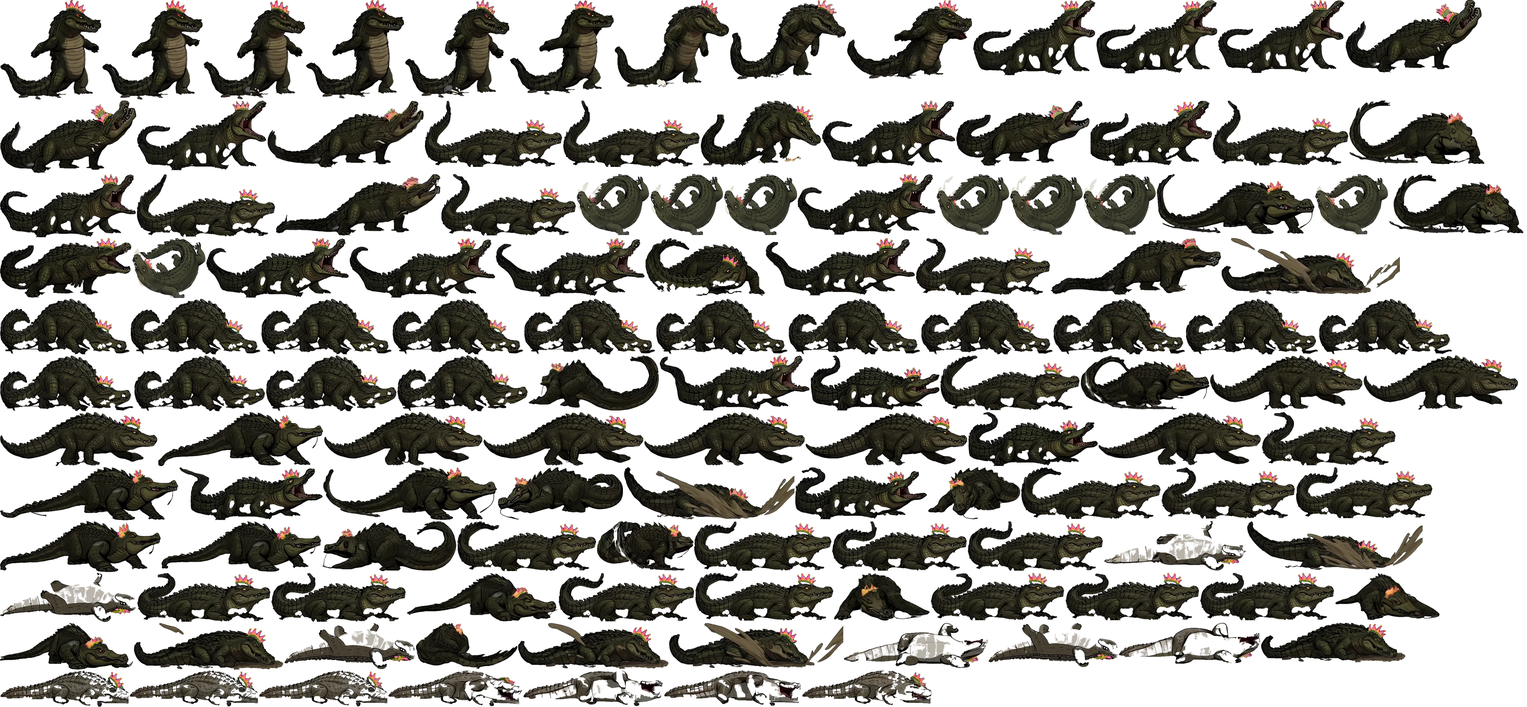
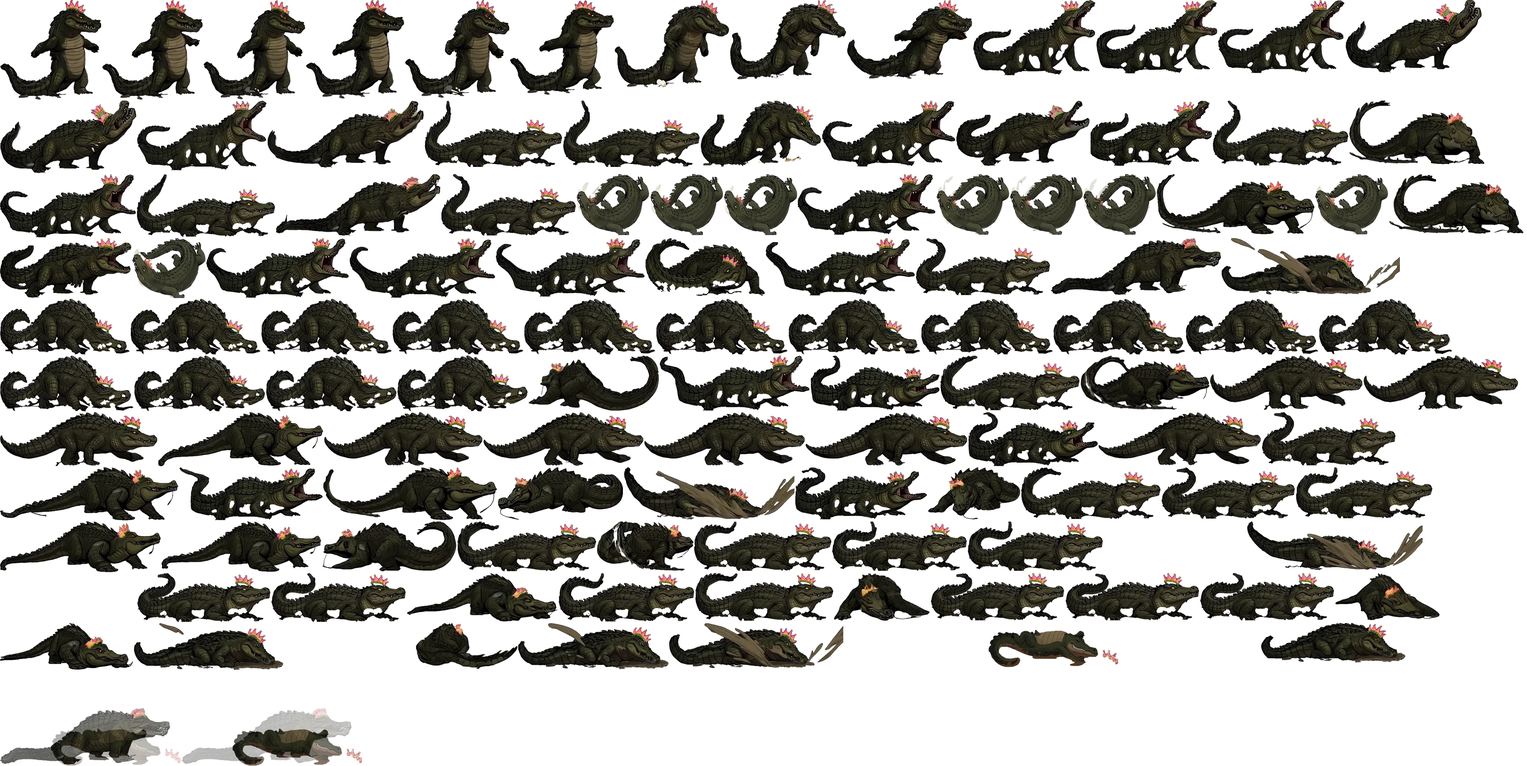
R-1.1 wired (the lead said yes): Crocus Rex's painted defeat still in croc-anim.webp (mud spill repainted brown), the in-fight death clip rebuilt at $0 from his clean flinch + a 2-step cross-fade into the still (the 12 holey Wan frames cut; every packed frame 1-2% holes), and a beaten guardian on a 
Claude-Session: https://claude.ai/code/session_01FhBbYNb5urBcaMjg7yH8FS

diff --git a/src/game/crocAnimData.ts b/src/game/crocAnimData.ts
@@ -4,5 +4,5 @@ import type { BossFrameRect } from './paintedBoss.ts';
 export const CROC_ANIM_UP = 1.5;
 export const CROC_ANIM_SIZE = { w: 4096, h: 1898 };
 /** the frame names of each move, in order */
-export const CROC_CLIPS = {"idle": ["idle_005", "idle_007", "idle_009", "idle_011", "idle_013", "idle_015", "idle_017", "idle_019", "idle_021", "idle_023", "idle_025", "idle_027", "idle_029", "idle_031", "idle_033", "idle_035", "idle_037", "idle_039", "idle_041", "idle_043", "idle_045", "idle_047"], "crawl": ["crawl_006", "crawl_007", "crawl_008", "crawl_009", "crawl_010", "crawl_011", "crawl_012", "crawl_013"], "roar": ["roar_000", "roar_002", "roar_004", "roar_006", "roar_008", "roar_010", "roar_012", "roar_014", "roar_016", "roar_018", "roar_020", "roar_022", "roar_024", "roar_026", "roar_028", "roar_030", "roar_032"], "roarHold": ["roar_010", "roar_012", "roar_014", "roar_016", "roar_018", "roar_020", "roar_022", "roar_024"], "whipWind": ["whip_000", "whip_002", "whip_004", "whip_006", "whip_008", "whip_010", "whip_012", "whip_014", "whip_016", "whip_018"], "whipSpin": ["whip_019", "whip_022", "whip_025", "whip_028", "whip_031", "whip_034", "whip_037", "whip_040", "whip_043", "whip_046"], "slamUp": ["slam_000", "slam_002", "slam_004", "slam_006", "slam_008", "slam_010", "slam_012", "slam_014", "slam_016"], "slamDown": ["slam_017", "slam_019", "slam_021", "slam_023", "slam_025", "slam_027", "slam_029", "slam_031"], "pant": ["roar_016", "roar_018", "roar_020", "roar_022", "roar_024", "roar_026", "roar_028"], "hurt": ["hurt_000", "hurt_001", "hurt_002", "hurt_003", "hurt_004", "hurt_005", "hurt_006"], "stagger": ["stagger_011", "stagger_013", "stagger_015", "stagger_017", "stagger_019", "stagger_021", "stagger_023", "stagger_025", "stagger_027", "stagger_029", "stagger_031", "stagger_033", "stagger_035", "stagger_037", "stagger_039"], "defeated": ["defeated_000", "defeated_002", "defeated_004", "defeated_006", "defeated_008", "defeated_010", "defeated_012", "defeated_014", "defeated_016", "defeated_018", "defeated_020", "defeated_022", "defeated_024"], "roll": ["roll_008", "roll_009", "roll_010", "roll_011", "roll_012", "roll_013", "roll_014", "roll_015"]} as const satisfies Record<string, readonly string[]>;
-export const CROC_ANIM_FRAMES: Record<string, BossFrameRect> = {"crawl_006": {"x": 3246, "y": 954, "w": 409, "h": 146, "ax": 215.2, "ay": 139.8}, "crawl_007": {"x": 3657, "y": 954, "w": 416, "h": 146, "ax": 220.2, "ay": 139.8}, "crawl_008": {"x": 0, "y": 1106, "w": 422, "h": 146, "ax": 225.2, "ay": 139.8}, "crawl_009": {"x": 869, "y": 1106, "w": 425, "h": 145, "ax": 227.2, "ay": 139.8}, "crawl_010": {"x": 1296, "y": 1106, "w": 430, "h": 145, "ax": 230.2, "ay": 139.8}, "crawl_011": {"x": 1728, "y": 1106, "w": 431, "h": 145, "ax": 230.2, "ay": 139.8}, "crawl_012": {"x": 2161, "y": 1106, "w": 434, "h": 145, "ax": 231.2, "ay": 139.8}, "crawl_013": {"x": 2947, "y": 1106, "w": 435, "h": 144, "ax": 231.2, "ay": 138.8}, "defeated_000": {"x": 0, "y": 1800, "w": 345, "h": 98, "ax": 169.2, "ay": 101.4}, "defeated_002": {"x": 347, "y": 1800, "w": 345, "h": 97, "ax": 169.2, "ay": 100.4}, "defeated_004": {"x": 694, "y": 1800, "w": 345, "h": 97, "ax": 169.2, "ay": 100.4}, "defeated_006": {"x": 2151, "y": 1800, "w": 348, "h": 93, "ax": 169.2, "ay": 100.4}, "defeated_008": {"x": 1041, "y": 1800, "w": 360, "h": 96, "ax": 169.2, "ay": 100.4}, "defeated_010": {"x": 1781, "y": 1800, "w": 368, "h": 95, "ax": 169.2, "ay": 99.4}, "defeated_012": {"x": 1403, "y": 1800, "w": 376, "h": 96, "ax": 169.2, "ay": 101.4}, "defeated_014": {"x": 3001, "y": 1672, "w": 379, "h": 110, "ax": 169.2, "ay": 116.4}, "defeated_016": {"x": 2264, "y": 1672, "w": 385, "h": 122, "ax": 170.2, "ay": 127.4}, "defeated_018": {"x": 2961, "y": 1399, "w": 382, "h": 133, "ax": 169.2, "ay": 134.4}, "defeated_020": {"x": 0, "y": 1538, "w": 365, "h": 132, "ax": 157.2, "ay": 130.4}, "defeated_022": {"x": 762, "y": 1672, "w": 351, "h": 125, "ax": 144.2, "ay": 123.4}, "defeated_024": {"x": 2651, "y": 1672, "w": 348, "h": 119, "ax": 141.2, "ay": 119.4}, "hurt_000": {"x": 0, "y": 639, "w": 353, "h": 161, "ax": 180.7, "ay": 164.0}, "hurt_001": {"x": 2565, "y": 270, "w": 358, "h": 176, "ax": 180.7, "ay": 179.0}, "hurt_002": {"x": 3609, "y": 0, "w": 365, "h": 195, "ax": 197.7, "ay": 198.0}, "hurt_003": {"x": 0, "y": 270, "w": 366, "h": 195, "ax": 197.7, "ay": 198.0}, "hurt_004": {"x": 717, "y": 270, "w": 420, "h": 180, "ax": 249.7, "ay": 183.0}, "hurt_005": {"x": 740, "y": 467, "w": 442, "h": 166, "ax": 275.7, "ay": 169.0}, "hurt_006": {"x": 2819, "y": 639, "w": 456, "h": 153, "ax": 277.7, "ay": 156.0}, "idle_005": {"x": 3476, "y": 1254, "w": 366, "h": 137, "ax": 181.8, "ay": 141.3}, "idle_007": {"x": 1862, "y": 1399, "w": 368, "h": 133, "ax": 183.8, "ay": 137.3}, "idle_009": {"x": 1865, "y": 1538, "w": 370, "h": 128, "ax": 185.8, "ay": 132.3}, "idle_011": {"x": 1226, "y": 1399, "w": 373, "h": 134, "ax": 188.8, "ay": 138.3}, "idle_013": {"x": 2739, "y": 1254, "w": 374, "h": 139, "ax": 189.8, "ay": 143.3}, "idle_015": {"x": 2522, "y": 954, "w": 374, "h": 147, "ax": 189.8, "ay": 151.3}, "idle_017": {"x": 367, "y": 467, "w": 371, "h": 168, "ax": 186.8, "ay": 172.3}, "idle_019": {"x": 1139, "y": 270, "w": 369, "h": 178, "ax": 184.8, "ay": 182.3}, "idle_021": {"x": 1510, "y": 270, "w": 367, "h": 178, "ax": 182.8, "ay": 182.3}, "idle_023": {"x": 3253, "y": 270, "w": 364, "h": 174, "ax": 179.8, "ay": 178.3}, "idle_025": {"x": 1184, "y": 467, "w": 361, "h": 165, "ax": 176.8, "ay": 169.3}, "idle_027": {"x": 2457, "y": 639, "w": 360, "h": 153, "ax": 175.8, "ay": 157.3}, "idle_029": {"x": 3384, "y": 1106, "w": 360, "h": 143, "ax": 175.8, "ay": 147.3}, "idle_031": {"x": 3115, "y": 1254, "w": 359, "h": 138, "ax": 174.8, "ay": 142.3}, "idle_033": {"x": 367, "y": 1538, "w": 359, "h": 131, "ax": 174.8, "ay": 135.3}, "idle_035": {"x": 2496, "y": 1538, "w": 359, "h": 127, "ax": 174.8, "ay": 131.3}, "idle_037": {"x": 2857, "y": 1538, "w": 360, "h": 127, "ax": 175.8, "ay": 131.3}, "idle_039": {"x": 3219, "y": 1538, "w": 360, "h": 127, "ax": 175.8, "ay": 131.3}, "idle_041": {"x": 728, "y": 1538, "w": 361, "h": 131, "ax": 176.8, "ay": 135.3}, "idle_043": {"x": 2232, "y": 1399, "w": 362, "h": 133, "ax": 177.8, "ay": 137.3}, "idle_045": {"x": 2596, "y": 1399, "w": 363, "h": 133, "ax": 178.8, "ay": 137.3}, "idle_047": {"x": 1498, "y": 1538, "w": 365, "h": 130, "ax": 180.8, "ay": 134.3}, "roar_000": {"x": 2925, "y": 270, "w": 326, "h": 175, "ax": 185.0, "ay": 179.1}, "roar_002": {"x": 2941, "y": 0, "w": 324, "h": 197, "ax": 198.0, "ay": 201.1}, "roar_004": {"x": 2610, "y": 0, "w": 329, "h": 202, "ax": 206.0, "ay": 206.1}, "roar_006": {"x": 3267, "y": 0, "w": 340, "h": 196, "ax": 211.0, "ay": 200.1}, "roar_008": {"x": 368, "y": 270, "w": 347, "h": 187, "ax": 213.0, "ay": 191.1}, "roar_010": {"x": 2205, "y": 270, "w": 358, "h": 177, "ax": 216.0, "ay": 181.1}, "roar_012": {"x": 0, "y": 467, "w": 365, "h": 170, "ax": 218.0, "ay": 174.1}, "roar_014": {"x": 2140, "y": 467, "w": 370, "h": 163, "ax": 219.0, "ay": 167.1}, "roar_016": {"x": 553, "y": 639, "w": 383, "h": 160, "ax": 228.0, "ay": 164.1}, "roar_018": {"x": 938, "y": 639, "w": 390, "h": 160, "ax": 233.0, "ay": 164.1}, "roar_020": {"x": 1330, "y": 639, "w": 399, "h": 157, "ax": 240.0, "ay": 161.1}, "roar_022": {"x": 2054, "y": 639, "w": 401, "h": 154, "ax": 240.0, "ay": 158.1}, "roar_024": {"x": 1769, "y": 954, "w": 403, "h": 148, "ax": 239.0, "ay": 152.1}, "roar_026": {"x": 481, "y": 1254, "w": 384, "h": 142, "ax": 218.0, "ay": 146.1}, "roar_028": {"x": 2133, "y": 1254, "w": 354, "h": 140, "ax": 189.0, "ay": 144.1}, "roar_030": {"x": 2597, "y": 1106, "w": 348, "h": 145, "ax": 190.0, "ay": 149.1}, "roar_032": {"x": 2174, "y": 954, "w": 346, "h": 148, "ax": 193.0, "ay": 152.1}, "roll_008": {"x": 355, "y": 639, "w": 196, "h": 161, "ax": 95.9, "ay": 167.6}, "roll_009": {"x": 3528, "y": 467, "w": 196, "h": 162, "ax": 94.9, "ay": 168.6}, "roll_010": {"x": 2512, "y": 467, "w": 195, "h": 163, "ax": 94.9, "ay": 169.6}, "roll_011": {"x": 2709, "y": 467, "w": 195, "h": 163, "ax": 94.9, "ay": 169.6}, "roll_012": {"x": 2906, "y": 467, "w": 195, "h": 163, "ax": 94.9, "ay": 169.6}, "roll_013": {"x": 1547, "y": 467, "w": 195, "h": 164, "ax": 94.9, "ay": 170.6}, "roll_014": {"x": 1744, "y": 467, "w": 196, "h": 164, "ax": 95.9, "ay": 170.6}, "roll_015": {"x": 1942, "y": 467, "w": 196, "h": 164, "ax": 94.9, "ay": 170.6}, "slam_000": {"x": 1879, "y": 270, "w": 324, "h": 178, "ax": 160.2, "ay": 180.6}, "slam_002": {"x": 1958, "y": 0, "w": 312, "h": 213, "ax": 171.2, "ay": 214.6}, "slam_004": {"x": 1649, "y": 0, "w": 307, "h": 235, "ax": 184.2, "ay": 234.6}, "slam_006": {"x": 1086, "y": 0, "w": 280, "h": 263, "ax": 196.2, "ay": 259.6}, "slam_008": {"x": 546, "y": 0, "w": 273, "h": 267, "ax": 197.2, "ay": 263.6}, "slam_010": {"x": 0, "y": 0, "w": 272, "h": 268, "ax": 201.2, "ay": 264.6}, "slam_012": {"x": 274, "y": 0, "w": 270, "h": 268, "ax": 200.2, "ay": 264.6}, "slam_014": {"x": 821, "y": 0, "w": 263, "h": 265, "ax": 195.2, "ay": 261.6}, "slam_016": {"x": 1368, "y": 0, "w": 279, "h": 255, "ax": 198.2, "ay": 251.6}, "slam_017": {"x": 2272, "y": 0, "w": 336, "h": 212, "ax": 210.2, "ay": 212.6}, "slam_019": {"x": 3345, "y": 1399, "w": 471, "h": 132, "ax": 218.2, "ay": 130.6}, "slam_021": {"x": 1673, "y": 1254, "w": 458, "h": 141, "ax": 205.2, "ay": 139.6}, "slam_023": {"x": 1795, "y": 1672, "w": 467, "h": 122, "ax": 214.2, "ay": 118.6}, "slam_025": {"x": 3277, "y": 639, "w": 478, "h": 152, "ax": 225.2, "ay": 148.6}, "slam_027": {"x": 1390, "y": 1672, "w": 403, "h": 124, "ax": 225.2, "ay": 119.6}, "slam_029": {"x": 359, "y": 1672, "w": 401, "h": 126, "ax": 222.2, "ay": 121.6}, "slam_031": {"x": 3382, "y": 1672, "w": 389, "h": 106, "ax": 207.2, "ay": 101.6}, "stagger_011": {"x": 0, "y": 802, "w": 348, "h": 150, "ax": 178.4, "ay": 154.7}, "stagger_013": {"x": 350, "y": 802, "w": 349, "h": 150, "ax": 179.4, "ay": 154.7}, "stagger_015": {"x": 701, "y": 802, "w": 350, "h": 150, "ax": 180.4, "ay": 154.7}, "stagger_017": {"x": 1053, "y": 802, "w": 351, "h": 150, "ax": 181.4, "ay": 154.7}, "stagger_019": {"x": 1406, "y": 802, "w": 352, "h": 150, "ax": 182.4, "ay": 154.7}, "stagger_021": {"x": 1760, "y": 802, "w": 353, "h": 150, "ax": 183.4, "ay": 154.7}, "stagger_023": {"x": 2115, "y": 802, "w": 354, "h": 150, "ax": 184.4, "ay": 154.7}, "stagger_025": {"x": 2471, "y": 802, "w": 353, "h": 150, "ax": 184.4, "ay": 154.7}, "stagger_027": {"x": 2826, "y": 802, "w": 353, "h": 150, "ax": 184.4, "ay": 154.7}, "stagger_029": {"x": 3181, "y": 802, "w": 355, "h": 150, "ax": 184.4, "ay": 154.7}, "stagger_031": {"x": 3538, "y": 802, "w": 358, "h": 150, "ax": 184.4, "ay": 154.7}, "stagger_033": {"x": 0, "y": 954, "w": 358, "h": 150, "ax": 183.4, "ay": 154.7}, "stagger_035": {"x": 360, "y": 954, "w": 352, "h": 150, "ax": 182.4, "ay": 154.7}, "stagger_037": {"x": 714, "y": 954, "w": 350, "h": 150, "ax": 180.4, "ay": 154.7}, "stagger_039": {"x": 1066, "y": 954, "w": 350, "h": 150, "ax": 179.4, "ay": 154.7}, "whip_000": {"x": 1731, "y": 639, "w": 321, "h": 156, "ax": 161.4, "ay": 156.7}, "whip_002": {"x": 3726, "y": 467, "w": 361, "h": 161, "ax": 199.4, "ay": 164.7}, "whip_004": {"x": 3619, "y": 270, "w": 363, "h": 171, "ax": 201.4, "ay": 175.7}, "whip_006": {"x": 3103, "y": 467, "w": 423, "h": 162, "ax": 232.4, "ay": 165.7}, "whip_008": {"x": 867, "y": 1254, "w": 466, "h": 142, "ax": 266.4, "ay": 145.7}, "whip_010": {"x": 0, "y": 1254, "w": 479, "h": 143, "ax": 280.4, "ay": 146.7}, "whip_012": {"x": 424, "y": 1106, "w": 443, "h": 146, "ax": 247.4, "ay": 147.7}, "whip_014": {"x": 0, "y": 1399, "w": 431, "h": 137, "ax": 235.4, "ay": 140.7}, "whip_016": {"x": 433, "y": 1399, "w": 429, "h": 136, "ax": 234.4, "ay": 139.7}, "whip_018": {"x": 1091, "y": 1538, "w": 405, "h": 131, "ax": 224.4, "ay": 136.7}, "whip_019": {"x": 0, "y": 1672, "w": 357, "h": 126, "ax": 184.4, "ay": 133.7}, "whip_022": {"x": 3581, "y": 1538, "w": 281, "h": 127, "ax": 113.4, "ay": 128.7}, "whip_025": {"x": 2237, "y": 1538, "w": 257, "h": 128, "ax": 80.4, "ay": 127.7}, "whip_028": {"x": 2489, "y": 1254, "w": 248, "h": 140, "ax": 109.4, "ay": 130.7}, "whip_031": {"x": 1335, "y": 1254, "w": 336, "h": 141, "ax": 152.4, "ay": 135.7}, "whip_034": {"x": 864, "y": 1399, "w": 360, "h": 135, "ax": 149.4, "ay": 142.7}, "whip_037": {"x": 1418, "y": 954, "w": 349, "h": 149, "ax": 128.4, "ay": 149.7}, "whip_040": {"x": 1115, "y": 1672, "w": 273, "h": 124, "ax": 78.4, "ay": 133.7}, "whip_043": {"x": 1601, "y": 1399, "w": 259, "h": 134, "ax": 134.4, "ay": 141.7}, "whip_046": {"x": 2898, "y": 954, "w": 346, "h": 147, "ax": 172.4, "ay": 154.7}};
+export const CROC_CLIPS = {"idle": ["idle_005", "idle_007", "idle_009", "idle_011", "idle_013", "idle_015", "idle_017", "idle_019", "idle_021", "idle_023", "idle_025", "idle_027", "idle_029", "idle_031", "idle_033", "idle_035", "idle_037", "idle_039", "idle_041", "idle_043", "idle_045", "idle_047"], "crawl": ["crawl_006", "crawl_007", "crawl_008", "crawl_009", "crawl_010", "crawl_011", "crawl_012", "crawl_013"], "roar": ["roar_000", "roar_002", "roar_004", "roar_006", "roar_008", "roar_010", "roar_012", "roar_014", "roar_016", "roar_018", "roar_020", "roar_022", "roar_024", "roar_026", "roar_028", "roar_030", "roar_032"], "roarHold": ["roar_010", "roar_012", "roar_014", "roar_016", "roar_018", "roar_020", "roar_022", "roar_024"], "whipWind": ["whip_000", "whip_002", "whip_004", "whip_006", "whip_008", "whip_010", "whip_012", "whip_014", "whip_016", "whip_018"], "whipSpin": ["whip_019", "whip_022", "whip_025", "whip_028", "whip_031", "whip_034", "whip_037", "whip_040", "whip_043", "whip_046"], "slamUp": ["slam_000", "slam_002", "slam_004", "slam_006", "slam_008", "slam_010", "slam_012", "slam_014", "slam_016"], "slamDown": ["slam_017", "slam_019", "slam_021", "slam_023", "slam_025", "slam_027", "slam_029", "slam_031"], "pant": ["roar_016", "roar_018", "roar_020", "roar_022", "roar_024", "roar_026", "roar_028"], "hurt": ["hurt_000", "hurt_001", "hurt_002", "hurt_003", "hurt_004", "hurt_005", "hurt_006"], "stagger": ["stagger_011", "stagger_013", "stagger_015", "stagger_017", "stagger_019", "stagger_021", "stagger_023", "stagger_025", "stagger_027", "stagger_029", "stagger_031", "stagger_033", "stagger_035", "stagger_037", "stagger_039"], "defeated": ["hurt_002", "hurt_006", "dfade_1", "dfade_2", "defeated_024", "defeated_024", "defeated_024", "defeated_024", "defeated_024", "defeated_024", "defeated_024", "defeated_024", "defeated_024"], "roll": ["roll_008", "roll_009", "roll_010", "roll_011", "roll_012", "roll_013", "roll_014", "roll_015"]} as const satisfies Record<string, readonly string[]>;
+export const CROC_ANIM_FRAMES: Record<string, BossFrameRect> = {"crawl_006": {"x": 3246, "y": 954, "w": 409, "h": 146, "ax": 215.2, "ay": 139.8}, "crawl_007": {"x": 3657, "y": 954, "w": 416, "h": 146, "ax": 220.2, "ay": 139.8}, "crawl_008": {"x": 0, "y": 1106, "w": 422, "h": 146, "ax": 225.2, "ay": 139.8}, "crawl_009": {"x": 869, "y": 1106, "w": 425, "h": 145, "ax": 227.2, "ay": 139.8}, "crawl_010": {"x": 1296, "y": 1106, "w": 430, "h": 145, "ax": 230.2, "ay": 139.8}, "crawl_011": {"x": 1728, "y": 1106, "w": 431, "h": 145, "ax": 230.2, "ay": 139.8}, "crawl_012": {"x": 2161, "y": 1106, "w": 434, "h": 145, "ax": 231.2, "ay": 139.8}, "crawl_013": {"x": 2947, "y": 1106, "w": 435, "h": 144, "ax": 231.2, "ay": 138.8}, "defeated_024": {"x": 2651, "y": 1672, "w": 348, "h": 119, "ax": 141.2, "ay": 119.4}, "hurt_000": {"x": 0, "y": 639, "w": 353, "h": 161, "ax": 180.7, "ay": 164.0}, "hurt_001": {"x": 2565, "y": 270, "w": 358, "h": 176, "ax": 180.7, "ay": 179.0}, "hurt_002": {"x": 3609, "y": 0, "w": 365, "h": 195, "ax": 197.7, "ay": 198.0}, "hurt_003": {"x": 0, "y": 270, "w": 366, "h": 195, "ax": 197.7, "ay": 198.0}, "hurt_004": {"x": 717, "y": 270, "w": 420, "h": 180, "ax": 249.7, "ay": 183.0}, "hurt_005": {"x": 740, "y": 467, "w": 442, "h": 166, "ax": 275.7, "ay": 169.0}, "hurt_006": {"x": 2819, "y": 639, "w": 456, "h": 153, "ax": 277.7, "ay": 156.0}, "idle_005": {"x": 3476, "y": 1254, "w": 366, "h": 137, "ax": 181.8, "ay": 141.3}, "idle_007": {"x": 1862, "y": 1399, "w": 368, "h": 133, "ax": 183.8, "ay": 137.3}, "idle_009": {"x": 1865, "y": 1538, "w": 370, "h": 128, "ax": 185.8, "ay": 132.3}, "idle_011": {"x": 1226, "y": 1399, "w": 373, "h": 134, "ax": 188.8, "ay": 138.3}, "idle_013": {"x": 2739, "y": 1254, "w": 374, "h": 139, "ax": 189.8, "ay": 143.3}, "idle_015": {"x": 2522, "y": 954, "w": 374, "h": 147, "ax": 189.8, "ay": 151.3}, "idle_017": {"x": 367, "y": 467, "w": 371, "h": 168, "ax": 186.8, "ay": 172.3}, "idle_019": {"x": 1139, "y": 270, "w": 369, "h": 178, "ax": 184.8, "ay": 182.3}, "idle_021": {"x": 1510, "y": 270, "w": 367, "h": 178, "ax": 182.8, "ay": 182.3}, "idle_023": {"x": 3253, "y": 270, "w": 364, "h": 174, "ax": 179.8, "ay": 178.3}, "idle_025": {"x": 1184, "y": 467, "w": 361, "h": 165, "ax": 176.8, "ay": 169.3}, "idle_027": {"x": 2457, "y": 639, "w": 360, "h": 153, "ax": 175.8, "ay": 157.3}, "idle_029": {"x": 3384, "y": 1106, "w": 360, "h": 143, "ax": 175.8, "ay": 147.3}, "idle_031": {"x": 3115, "y": 1254, "w": 359, "h": 138, "ax": 174.8, "ay": 142.3}, "idle_033": {"x": 367, "y": 1538, "w": 359, "h": 131, "ax": 174.8, "ay": 135.3}, "idle_035": {"x": 2496, "y": 1538, "w": 359, "h": 127, "ax": 174.8, "ay": 131.3}, "idle_037": {"x": 2857, "y": 1538, "w": 360, "h": 127, "ax": 175.8, "ay": 131.3}, "idle_039": {"x": 3219, "y": 1538, "w": 360, "h": 127, "ax": 175.8, "ay": 131.3}, "idle_041": {"x": 728, "y": 1538, "w": 361, "h": 131, "ax": 176.8, "ay": 135.3}, "idle_043": {"x": 2232, "y": 1399, "w": 362, "h": 133, "ax": 177.8, "ay": 137.3}, "idle_045": {"x": 2596, "y": 1399, "w": 363, "h": 133, "ax": 178.8, "ay": 137.3}, "idle_047": {"x": 1498, "y": 1538, "w": 365, "h": 130, "ax": 180.8, "ay": 134.3}, "roar_000": {"x": 2925, "y": 270, "w": 326, "h": 175, "ax": 185.0, "ay": 179.1}, "roar_002": {"x": 2941, "y": 0, "w": 324, "h": 197, "ax": 198.0, "ay": 201.1}, "roar_004": {"x": 2610, "y": 0, "w": 329, "h": 202, "ax": 206.0, "ay": 206.1}, "roar_006": {"x": 3267, "y": 0, "w": 340, "h": 196, "ax": 211.0, "ay": 200.1}, "roar_008": {"x": 368, "y": 270, "w": 347, "h": 187, "ax": 213.0, "ay": 191.1}, "roar_010": {"x": 2205, "y": 270, "w": 358, "h": 177, "ax": 216.0, "ay": 181.1}, "roar_012": {"x": 0, "y": 467, "w": 365, "h": 170, "ax": 218.0, "ay": 174.1}, "roar_014": {"x": 2140, "y": 467, "w": 370, "h": 163, "ax": 219.0, "ay": 167.1}, "roar_016": {"x": 553, "y": 639, "w": 383, "h": 160, "ax": 228.0, "ay": 164.1}, "roar_018": {"x": 938, "y": 639, "w": 390, "h": 160, "ax": 233.0, "ay": 164.1}, "roar_020": {"x": 1330, "y": 639, "w": 399, "h": 157, "ax": 240.0, "ay": 161.1}, "roar_022": {"x": 2054, "y": 639, "w": 401, "h": 154, "ax": 240.0, "ay": 158.1}, "roar_024": {"x": 1769, "y": 954, "w": 403, "h": 148, "ax": 239.0, "ay": 152.1}, "roar_026": {"x": 481, "y": 1254, "w": 384, "h": 142, "ax": 218.0, "ay": 146.1}, "roar_028": {"x": 2133, "y": 1254, "w": 354, "h": 140, "ax": 189.0, "ay": 144.1}, "roar_030": {"x": 2597, "y": 1106, "w": 348, "h": 145, "ax": 190.0, "ay": 149.1}, "roar_032": {"x": 2174, "y": 954, "w": 346, "h": 148, "ax": 193.0, "ay": 152.1}, "roll_008": {"x": 355, "y": 639, "w": 196, "h": 161, "ax": 95.9, "ay": 167.6}, "roll_009": {"x": 3528, "y": 467, "w": 196, "h": 162, "ax": 94.9, "ay": 168.6}, "roll_010": {"x": 2512, "y": 467, "w": 195, "h": 163, "ax": 94.9, "ay": 169.6}, "roll_011": {"x": 2709, "y": 467, "w": 195, "h": 163, "ax": 94.9, "ay": 169.6}, "roll_012": {"x": 2906, "y": 467, "w": 195, "h": 163, "ax": 94.9, "ay": 169.6}, "roll_013": {"x": 1547, "y": 467, "w": 195, "h": 164, "ax": 94.9, "ay": 170.6}, "roll_014": {"x": 1744, "y": 467, "w": 196, "h": 164, "ax": 95.9, "ay": 170.6}, "roll_015": {"x": 1942, "y": 467, "w": 196, "h": 164, "ax": 94.9, "ay": 170.6}, "slam_000": {"x": 1879, "y": 270, "w": 324, "h": 178, "ax": 160.2, "ay": 180.6}, "slam_002": {"x": 1958, "y": 0, "w": 312, "h": 213, "ax": 171.2, "ay": 214.6}, "slam_004": {"x": 1649, "y": 0, "w": 307, "h": 235, "ax": 184.2, "ay": 234.6}, "slam_006": {"x": 1086, "y": 0, "w": 280, "h": 263, "ax": 196.2, "ay": 259.6}, "slam_008": {"x": 546, "y": 0, "w": 273, "h": 267, "ax": 197.2, "ay": 263.6}, "slam_010": {"x": 0, "y": 0, "w": 272, "h": 268, "ax": 201.2, "ay": 264.6}, "slam_012": {"x": 274, "y": 0, "w": 270, "h": 268, "ax": 200.2, "ay": 264.6}, "slam_014": {"x": 821, "y": 0, "w": 263, "h": 265, "ax": 195.2, "ay": 261.6}, "slam_016": {"x": 1368, "y": 0, "w": 279, "h": 255, "ax": 198.2, "ay": 251.6}, "slam_017": {"x": 2272, "y": 0, "w": 336, "h": 212, "ax": 210.2, "ay": 212.6}, "slam_019": {"x": 3345, "y": 1399, "w": 471, "h": 132, "ax": 218.2, "ay": 130.6}, "slam_021": {"x": 1673, "y": 1254, "w": 458, "h": 141, "ax": 205.2, "ay": 139.6}, "slam_023": {"x": 1795, "y": 1672, "w": 467, "h": 122, "ax": 214.2, "ay": 118.6}, "slam_025": {"x": 3277, "y": 639, "w": 478, "h": 152, "ax": 225.2, "ay": 148.6}, "slam_027": {"x": 1390, "y": 1672, "w": 403, "h": 124, "ax": 225.2, "ay": 119.6}, "slam_029": {"x": 359, "y": 1672, "w": 401, "h": 126, "ax": 222.2, "ay": 121.6}, "slam_031": {"x": 3382, "y": 1672, "w": 389, "h": 106, "ax": 207.2, "ay": 101.6}, "stagger_011": {"x": 0, "y": 802, "w": 348, "h": 150, "ax": 178.4, "ay": 154.7}, "stagger_013": {"x": 350, "y": 802, "w": 349, "h": 150, "ax": 179.4, "ay": 154.7}, "stagger_015": {"x": 701, "y": 802, "w": 350, "h": 150, "ax": 180.4, "ay": 154.7}, "stagger_017": {"x": 1053, "y": 802, "w": 351, "h": 150, "ax": 181.4, "ay": 154.7}, "stagger_019": {"x": 1406, "y": 802, "w": 352, "h": 150, "ax": 182.4, "ay": 154.7}, "stagger_021": {"x": 1760, "y": 802, "w": 353, "h": 150, "ax": 183.4, "ay": 154.7}, "stagger_023": {"x": 2115, "y": 802, "w": 354, "h": 150, "ax": 184.4, "ay": 154.7}, "stagger_025": {"x": 2471, "y": 802, "w": 353, "h": 150, "ax": 184.4, "ay": 154.7}, "stagger_027": {"x": 2826, "y": 802, "w": 353, "h": 150, "ax": 184.4, "ay": 154.7}, "stagger_029": {"x": 3181, "y": 802, "w": 355, "h": 150, "ax": 184.4, "ay": 154.7}, "stagger_031": {"x": 3538, "y": 802, "w": 358, "h": 150, "ax": 184.4, "ay": 154.7}, "stagger_033": {"x": 0, "y": 954, "w": 358, "h": 150, "ax": 183.4, "ay": 154.7}, "stagger_035": {"x": 360, "y": 954, "w": 352, "h": 150, "ax": 182.4, "ay": 154.7}, "stagger_037": {"x": 714, "y": 954, "w": 350, "h": 150, "ax": 180.4, "ay": 154.7}, "stagger_039": {"x": 1066, "y": 954, "w": 350, "h": 150, "ax": 179.4, "ay": 154.7}, "whip_000": {"x": 1731, "y": 639, "w": 321, "h": 156, "ax": 161.4, "ay": 156.7}, "whip_002": {"x": 3726, "y": 467, "w": 361, "h": 161, "ax": 199.4, "ay": 164.7}, "whip_004": {"x": 3619, "y": 270, "w": 363, "h": 171, "ax": 201.4, "ay": 175.7}, "whip_006": {"x": 3103, "y": 467, "w": 423, "h": 162, "ax": 232.4, "ay": 165.7}, "whip_008": {"x": 867, "y": 1254, "w": 466, "h": 142, "ax": 266.4, "ay": 145.7}, "whip_010": {"x": 0, "y": 1254, "w": 479, "h": 143, "ax": 280.4, "ay": 146.7}, "whip_012": {"x": 424, "y": 1106, "w": 443, "h": 146, "ax": 247.4, "ay": 147.7}, "whip_014": {"x": 0, "y": 1399, "w": 431, "h": 137, "ax": 235.4, "ay": 140.7}, "whip_016": {"x": 433, "y": 1399, "w": 429, "h": 136, "ax": 234.4, "ay": 139.7}, "whip_018": {"x": 1091, "y": 1538, "w": 405, "h": 131, "ax": 224.4, "ay": 136.7}, "whip_019": {"x": 0, "y": 1672, "w": 357, "h": 126, "ax": 184.4, "ay": 133.7}, "whip_022": {"x": 3581, "y": 1538, "w": 281, "h": 127, "ax": 113.4, "ay": 128.7}, "whip_025": {"x": 2237, "y": 1538, "w": 257, "h": 128, "ax": 80.4, "ay": 127.7}, "whip_028": {"x": 2489, "y": 1254, "w": 248, "h": 140, "ax": 109.4, "ay": 130.7}, "whip_031": {"x": 1335, "y": 1254, "w": 336, "h": 141, "ax": 152.4, "ay": 135.7}, "whip_034": {"x": 864, "y": 1399, "w": 360, "h": 135, "ax": 149.4, "ay": 142.7}, "whip_037": {"x": 1418, "y": 954, "w": 349, "h": 149, "ax": 128.4, "ay": 149.7}, "whip_040": {"x": 1115, "y": 1672, "w": 273, "h": 124, "ax": 78.4, "ay": 133.7}, "whip_043": {"x": 1601, "y": 1399, "w": 259, "h": 134, "ax": 134.4, "ay": 141.7}, "whip_046": {"x": 2898, "y": 954, "w": 346, "h": 147, "ax": 172.4, "ay": 154.7}, "dfade_1": {"x": 0, "y": 1900, "w": 485, "h": 156, "ax": 277.7, "ay": 156.0}, "dfade_2": {"x": 487, "y": 1900, "w": 485, "h": 156, "ax": 277.7, "ay": 156.0}};

diff --git a/src/game/storyFrame.ts b/src/game/storyFrame.ts
@@ -22,3 +22,25 @@ export function capStoryZoom(z: number, dev: number, actorScale = 1): number {
 export function liftForFeet(gy: number, h: number, feetMax: number, lift: number): number {
   return Math.min(0.32, Math.max(lift, (gy - feetMax * h) / h));
 }
+
+/**
+ * A beaten guardian lies low, and its painted card frame is drawn 24 units under the ground line (the old vector drawings' shadow
+ * offset): on a defeat card it sank behind the words box, half of it upright and nearly all of it sideways, where the camera may lift
+ * the picture only so far (R-1.1, 2026-11-02; Crocus Rex, "he must read"). It moves back up the scene just far enough that its bottom
+ * clears the box (`boxTop`, the line the box's top sets, also in a close shot that does not lift the picture), as if lying a little
+ * further off; a guardian that already shows is untouched.
+ */
+/** how far below its feet a painted guardian's card frame reaches, per unit of actor scale (the boss case: 0.62 x the 24-unit drop, and
+ * a little for the frame's own shadow) */
+const BEATEN_DROP = 0.62 * 24 + 6;
+
+export function clearOfBox<A extends { kind: string; beaten?: boolean; seq?: unknown; y?: number; scale?: number }>(
+  a: A, ground: number, h: number, fy: number, z: number, vh: number, lift: number, feetMax: number, sink = 5,
+): A {
+  if (a.kind !== 'boss' || !a.beaten || a.seq || feetMax >= 1) return a;
+  const footY = (a.y ?? ground) * h;
+  const bottom = footY + sink + BEATEN_DROP * 3 * (a.scale ?? 1);
+  const visible = fy + ((feetMax + lift) * vh - vh / 2) / z;
+  const raise = bottom - visible;
+  return raise > 0 ? { ...a, y: (footY - raise) / h } : a;
+}

diff --git a/src/game/storyArt.ts b/src/game/storyArt.ts
@@ -21,7 +21,7 @@ import { photoUrl } from './photos.ts';
 import { plateImage, preloadPlates, releasePlates } from './plates.ts';
 import { drawLivePlate, preloadLivePlates, releaseLivePlates } from './livePlates.ts';
 import { CEL_HD, CEL_K, CELS, drawCel, releaseCels, warmCels } from './storyCels.ts';
-import { capStoryZoom, liftForFeet } from './storyFrame.ts';
+import { capStoryZoom, clearOfBox, liftForFeet } from './storyFrame.ts';
 import { GROUND_LINE, groundImage } from './storyGround.ts';
 import { isPlate, PLATES } from './plateData.ts';
 import { FONT_READ } from './fonts.ts';
@@ -1571,7 +1571,7 @@ function vignetteFor(w: number, h: number): HTMLCanvasElement | null {
   return c;
 }
 
-export function drawStoryScene(ctx: CanvasRenderingContext2D, scene: StoryScene, t: number, w = SCENE_W, h = SCENE_H, lift = 0, feetMax = 1, top = 0) {
+export function drawStoryScene(ctx: CanvasRenderingContext2D, scene: StoryScene, t: number, w = SCENE_W, h = SCENE_H, lift = 0, feetMax = 1, top = 0, boxTop = feetMax) {
   ctx.save();
   const vh = h + top;
   ctx.clearRect(0, -top, w, vh);
@@ -1621,7 +1621,7 @@ export function drawStoryScene(ctx: CanvasRenderingContext2D, scene: StoryScene,
     drawLineup(ctx, w, h, t, ground);
   } else {
     if (!plated) drawGround(ctx, scene, h * ground, w, h, scroll, lift);
-    drawFigures(ctx, scene, (c) => scene.actors.forEach((a) => drawActor(c, pin(a, w, h), w, h, t, ground, scroll)));
+    drawFigures(ctx, scene, (c) => scene.actors.forEach((a) => drawActor(c, clearOfBox(pin(a, w, h), ground, h, fy, z, vh, lift, boxTop, SINK), w, h, t, ground, scroll)));
   }
 
   drawFx(ctx, scene.fx, t, w, h);

diff --git a/src/game/storyFrame.test.ts b/src/game/storyFrame.test.ts
@@ -23,3 +23,26 @@ test('the picture is raised until the ground is clear of the words box (ST-1)', 
   // never more than a third
   assert.equal(liftForFeet(540, 540, 0.5, 0), 0.32);
 });
+
+// R-1.1 (2026-11-02): a beaten guardian on a defeat card must lie clear of the words box, upright and in a close sideways shot
+import { clearOfBox } from './storyFrame.ts';
+test('a beaten guardian whose bottom would sit under the words box is raised just clear of it; nothing else moves', () => {
+  const h = 540, ground = 0.86, z = 1.2, vh = 540, lift = 0;
+  const fy = 0.62 * h;
+  const boss = { kind: 'boss', beaten: true, scale: 1, x: 0.72 };
+  // the box's top at 60% of the view: the boss's feet line is far under it
+  const up = clearOfBox(boss, ground, h, fy, z, vh, lift, 0.6);
+  const visible = fy + ((0.6 + lift) * vh - vh / 2) / z;
+  const bottom = (up.y ?? ground) * h + 5 + (0.62 * 24 + 6) * 3;
+  assert.ok(up.y !== undefined && up.y < ground, 'raised');
+  assert.ok(Math.abs(bottom - visible) < 0.01, 'its bottom sits on the box line');
+  // the box low enough: untouched
+  assert.equal(clearOfBox(boss, ground, h, fy, z, vh, lift, 1.4), boss);
+  // not beaten, a performance (seq), Pokey: untouched
+  const calm = { ...boss, beaten: false };
+  assert.equal(clearOfBox(calm, ground, h, fy, z, vh, lift, 0.6), calm);
+  const perf = { ...boss, seq: ['x'] };
+  assert.equal(clearOfBox(perf, ground, h, fy, z, vh, lift, 0.6), perf);
+  const pokey = { kind: 'milo', beaten: true };
+  assert.equal(clearOfBox(pokey, ground, h, fy, z, vh, lift, 0.6), pokey);
+});

diff --git a/src/components/StoryPlayer.tsx b/src/components/StoryPlayer.tsx
@@ -355,7 +355,7 @@ export const StoryPlayer: React.FC<StoryPlayerProps> = ({ panels: script, onFini
       // (while the player holds on, every roll of thunder shakes the picture a little, and the one that breaks shakes it hard)
       const sk = hold ? thunderShake(now - t0, breakAt.current ? now - breakAt.current : null) : { dx: 0, dy: 0, flash: 0 };
       ctx.setTransform(sc, 0, 0, sc, sk.dx * sc, (top + sk.dy) * sc);
-      drawStoryScene(ctx, scene, (now - t0) / 1000, sw, sh, lift, chestUp ? 1.5 : feetRef.current, top);
+      drawStoryScene(ctx, scene, (now - t0) / 1000, sw, sh, lift, chestUp ? 1.5 : feetRef.current, top, feetRef.current);
       if (sk.flash > 0) {
         ctx.fillStyle = `rgba(235,240,255,${sk.flash})`;
         ctx.fillRect(-20, -top - 20, sw + 40, sh + top + 40);

diff --git a/tools/art/crocdefeat/deathclip.py b/tools/art/crocdefeat/deathclip.py
@@ -1,0 +1,57 @@
+"""Crocus Rex's in-fight defeat clip, $0 (R-1.1, 2026-11-02): the Wan "defeated" clip was keyed off grey and lost 15-35% of his body
+(see-through). New clip, same 13 steps over the 2.0 s death (engine stepBossDeath / crocSprite DYING_S):
+  hurt_002 hurt_006         his clean flinch (1-2% holes), 0-0.31 s
+  dfade_1 dfade_2           hurt_006 cross-faded into the painted defeat still, aligned on his feet (the anchor), 0.31-0.62 s
+  defeated_024 x9           the painted still (tools/art/crocdefeat/pack.py), from 0.62 s; the engine fades a boss with no ending
+                            out from 1.0 s (bossArt.ts), so the still is what he falls apart from. The story cards draw it too.
+The fades go in a new row at the bottom of croc-anim.webp; the 12 old holey defeated_* frames are cut from the sheet and the data.
+Every packed frame is measured with holes.py.   python3 -I tools/art/crocdefeat/deathclip.py"""
+import json, re, sys
+from pathlib import Path
+import numpy as np
+from PIL import Image
+sys.path.insert(0, str(Path(__file__).resolve().parent))
+from holes import hole_share
+R = Path(__file__).resolve().parents[3]
+DATA = R / 'src/game/crocAnimData.ts'
+SHEET = R / 'src/assets/enemies/croc-anim.webp'
+src = DATA.read_text()
+m = re.search(r'(export const CROC_ANIM_FRAMES: Record<string, BossFrameRect> = )(\{.*?\});', src)
+fr = json.loads(m.group(2))
+sheet = Image.open(SHEET).convert('RGBA')
+crop = lambda f: sheet.crop((f['x'], f['y'], f['x'] + f['w'], f['y'] + f['h']))
+A, B = fr['hurt_006'], fr['defeated_024']
+left = max(A['ax'], B['ax']); right = max(A['w'] - A['ax'], B['w'] - B['ax']); up = max(A['ay'], B['ay']); down = max(A['h'] - A['ay'], B['h'] - B['ay'], 0)
+W, H = int(np.ceil(left + right)), int(np.ceil(up + down))
+def placed(f):
+    c = Image.new('RGBA', (W, H), (0, 0, 0, 0))
+    c.alpha_composite(crop(f), (int(round(left - f['ax'])), int(round(up - f['ay']))))
+    return np.asarray(c).astype(np.float32) / 255
+pa, pb = placed(A), placed(B)
+pre = lambda p: np.concatenate([p[..., :3] * p[..., 3:], p[..., 3:]], -1)
+fades = []
+for i, u in enumerate((0.35, 0.7), 1):
+    mix = pre(pa) * (1 - u) + pre(pb) * u
+    a = mix[..., 3:]
+    rgb = np.where(a > 1e-4, mix[..., :3] / np.maximum(a, 1e-4), 0)
+    fades.append((f'dfade_{i}', Image.fromarray((np.concatenate([rgb, a], -1) * 255).clip(0, 255).astype(np.uint8))))
+# cut the old holey frames out of the sheet and the data
+old = [k for k in fr if k.startswith('defeated_') and k != 'defeated_024']
+for k in old:
+    f = fr.pop(k)
+    sheet.paste(Image.new('RGBA', (f['w'], f['h']), (0, 0, 0, 0)), (f['x'], f['y']))
+# a new row under the sheet for the fades
+y0 = sheet.height + 2
+big = Image.new('RGBA', (sheet.width, y0 + H), (0, 0, 0, 0)); big.paste(sheet, (0, 0))
+x = 0
+for n, im in fades:
+    big.paste(im, (x, y0)); fr[n] = {'x': x, 'y': y0, 'w': W, 'h': H, 'ax': round(left, 1), 'ay': round(up, 1)}; x += W + 2
+big.save(SHEET, 'WEBP', quality=90, method=6)
+# (13 steps over 2.0 s; a boss with no ending fades out from 1.0 s (bossArt.ts drawBossFighter), so the still must be on by ~0.6 s)
+clip = ['hurt_002', 'hurt_006', 'dfade_1', 'dfade_2'] + ['defeated_024'] * 9
+src = src[:m.start(2)] + json.dumps(fr) + src[m.end(2):]
+src = re.sub(r'"defeated": \[[^\]]*\]', '"defeated": ' + json.dumps(clip), src)
+DATA.write_text(src)
+print('sheet', big.size, 'removed', len(old))
+for n in clip[:9]:
+    f = fr[n]; print(f'{n:14s} holes {hole_share(big.crop((f["x"], f["y"], f["x"] + f["w"], f["y"] + f["h"]))):.0%}')

diff --git a/tools/art/crocdefeat/pack.py b/tools/art/crocdefeat/pack.py
@@ -14,6 +14,16 @@ fr = json.loads(re.search(r'CROC_ANIM_FRAMES: Record<string, BossFrameRect> = (\
 f = fr['defeated_024']
 sheet = Image.open(R / 'src/assets/enemies/croc-anim.webp').convert('RGBA')
 art = key(take)                                   # body, crown and mud, trimmed
+# the magenta spill left the mud under him (and his tail tip) pinkish red: repaint those pixels as brown mud at the same lightness,
+# everywhere but the crown (the right end of the picture, past his snout)
+a = np.asarray(art).astype(np.float32)
+r, g, b = a[..., 0], a[..., 1], a[..., 2]
+xs = np.arange(a.shape[1])[None, :].repeat(a.shape[0], 0)
+pink = (r > g + 22) & (r > b - 30) & (a[..., 3] > 0) & (xs < 0.86 * a.shape[1])
+lum = (0.3 * r + 0.59 * g + 0.11 * b) / 255
+mud = np.array([104, 74, 48], np.float32)
+a[pink, :3] = np.clip(mud[None, :] * (0.55 + 0.9 * lum[pink, None]), 0, 255)
+art = Image.fromarray(a.astype(np.uint8))
 k = min(f['w'] / art.width, f['h'] / art.height)
 art = art.resize((max(1, round(art.width * k)), max(1, round(art.height * k))), Image.LANCZOS)
 box = Image.new('RGBA', (f['w'], f['h']), (0, 0, 0, 0))
